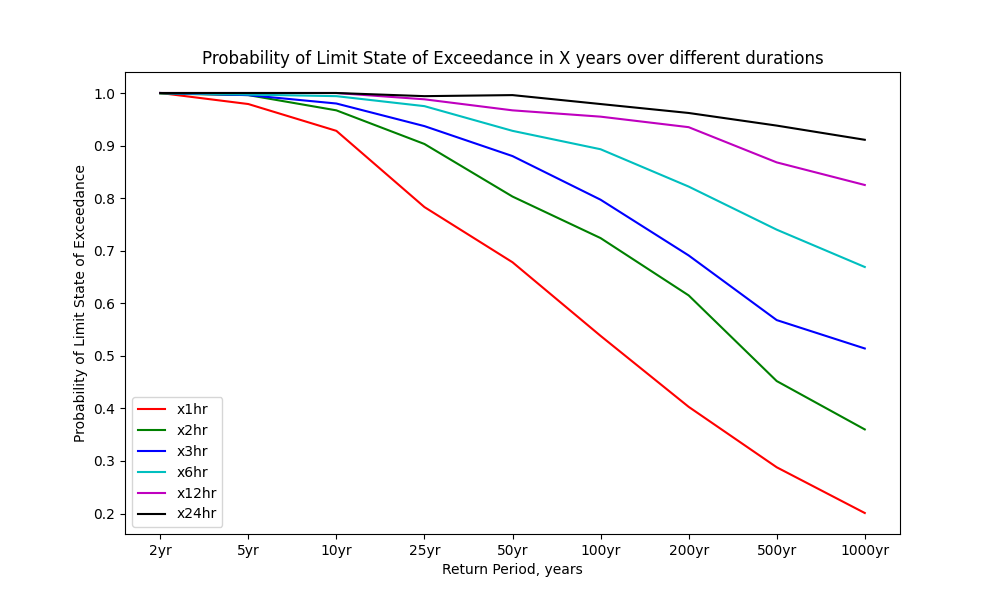
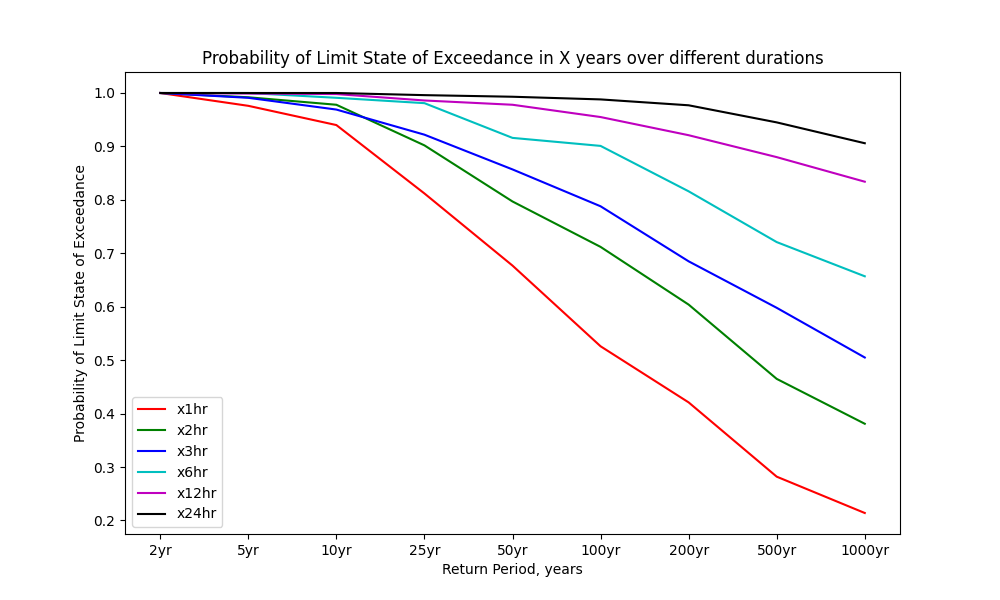
update risk assessment

diff --git a/studies/reliability/LAX/hazard/riskassessment.py b/studies/reliability/LAX/hazard/riskassessment.py
@@ -110,7 +110,7 @@ def duration_window_wise(window_size, duration):
     random_samples = np.sort(gumbel.rvs(loc=mu, scale=beta, size=num_samples))
     
     Pf = np.zeros(num_samples)
-    # threshold_num = np.random.uniform(0, 1, num_samples)
+    threshold_num = np.random.uniform(0, 1, num_samples)
     cnt = 0
     for (i, IM) in enumerate(random_samples):
         print(f'Entering IM count: {i} with IM: {IM}')
@@ -124,11 +124,11 @@ def duration_window_wise(window_size, duration):
         sigma_opt = df.loc[df['duration'].str.strip() == duration, 'sigma_opt'].values[0]
 
         Pf[i] = norm.cdf(np.log(IM), loc=mu_opt, scale=sigma_opt)
-        # threshold_num[i] = np.random.uniform(0, 1)
-        threshold_num = np.random.uniform(0, 1)
-        print(f'Probability of exceedance: {Pf[i]} < Random number: {threshold_num}')
+        threshold_num[i] = np.random.uniform(0, 1)
+        # threshold_num = np.random.uniform(0, 1)
+        print(f'Probability of exceedance: {Pf[i]} < Random number: {threshold_num[i]}')
 
-        if Pf[i] < threshold_num:
+        if Pf[i] < threshold_num[i]:
             print('True')
             cnt += 1  
         else:
@@ -136,13 +136,13 @@ def duration_window_wise(window_size, duration):
 
     # print(f'shape: {mean_gev_params[0]}, loc: {mean_gev_params[1]}, scale: {mean_gev_params[2]}')
 
-    # plt.hist(threshold_num, edgecolor='black', alpha=0.7)
+    # plt.hist(threshold_num, bins = 100, edgecolor='black', alpha=0.7)
     # plt.title('Histogram of Uniform Samples')
     # plt.xlabel('Value')
     # plt.ylabel('Frequency')
     # plt.show()
 
-    # plt.hist(random_samples, edgecolor='black', alpha=0.7)
+    # plt.hist(random_samples, edgecolor='black', alpha=0.7, label=f'{window_size} years')
     # plt.show()
 
     Prob_of_exceedance = cnt/num_samples
@@ -154,6 +154,12 @@ def duration_window_wise(window_size, duration):
 for (i, window_size) in enumerate(window_sizes):
     for (j, duration) in enumerate(columns):
         duration_window_wise(window_size, duration)
+
+# plt.title('Generated random samples from Gumbel (GEV-I) distribution for x1hr')
+# plt.xlabel('Intensity Measure')
+# plt.ylabel('Frequency')
+# plt.legend()
+# plt.show()
 
 # Finalize figure with labels and title
 for (i, duration) in enumerate(columns):
